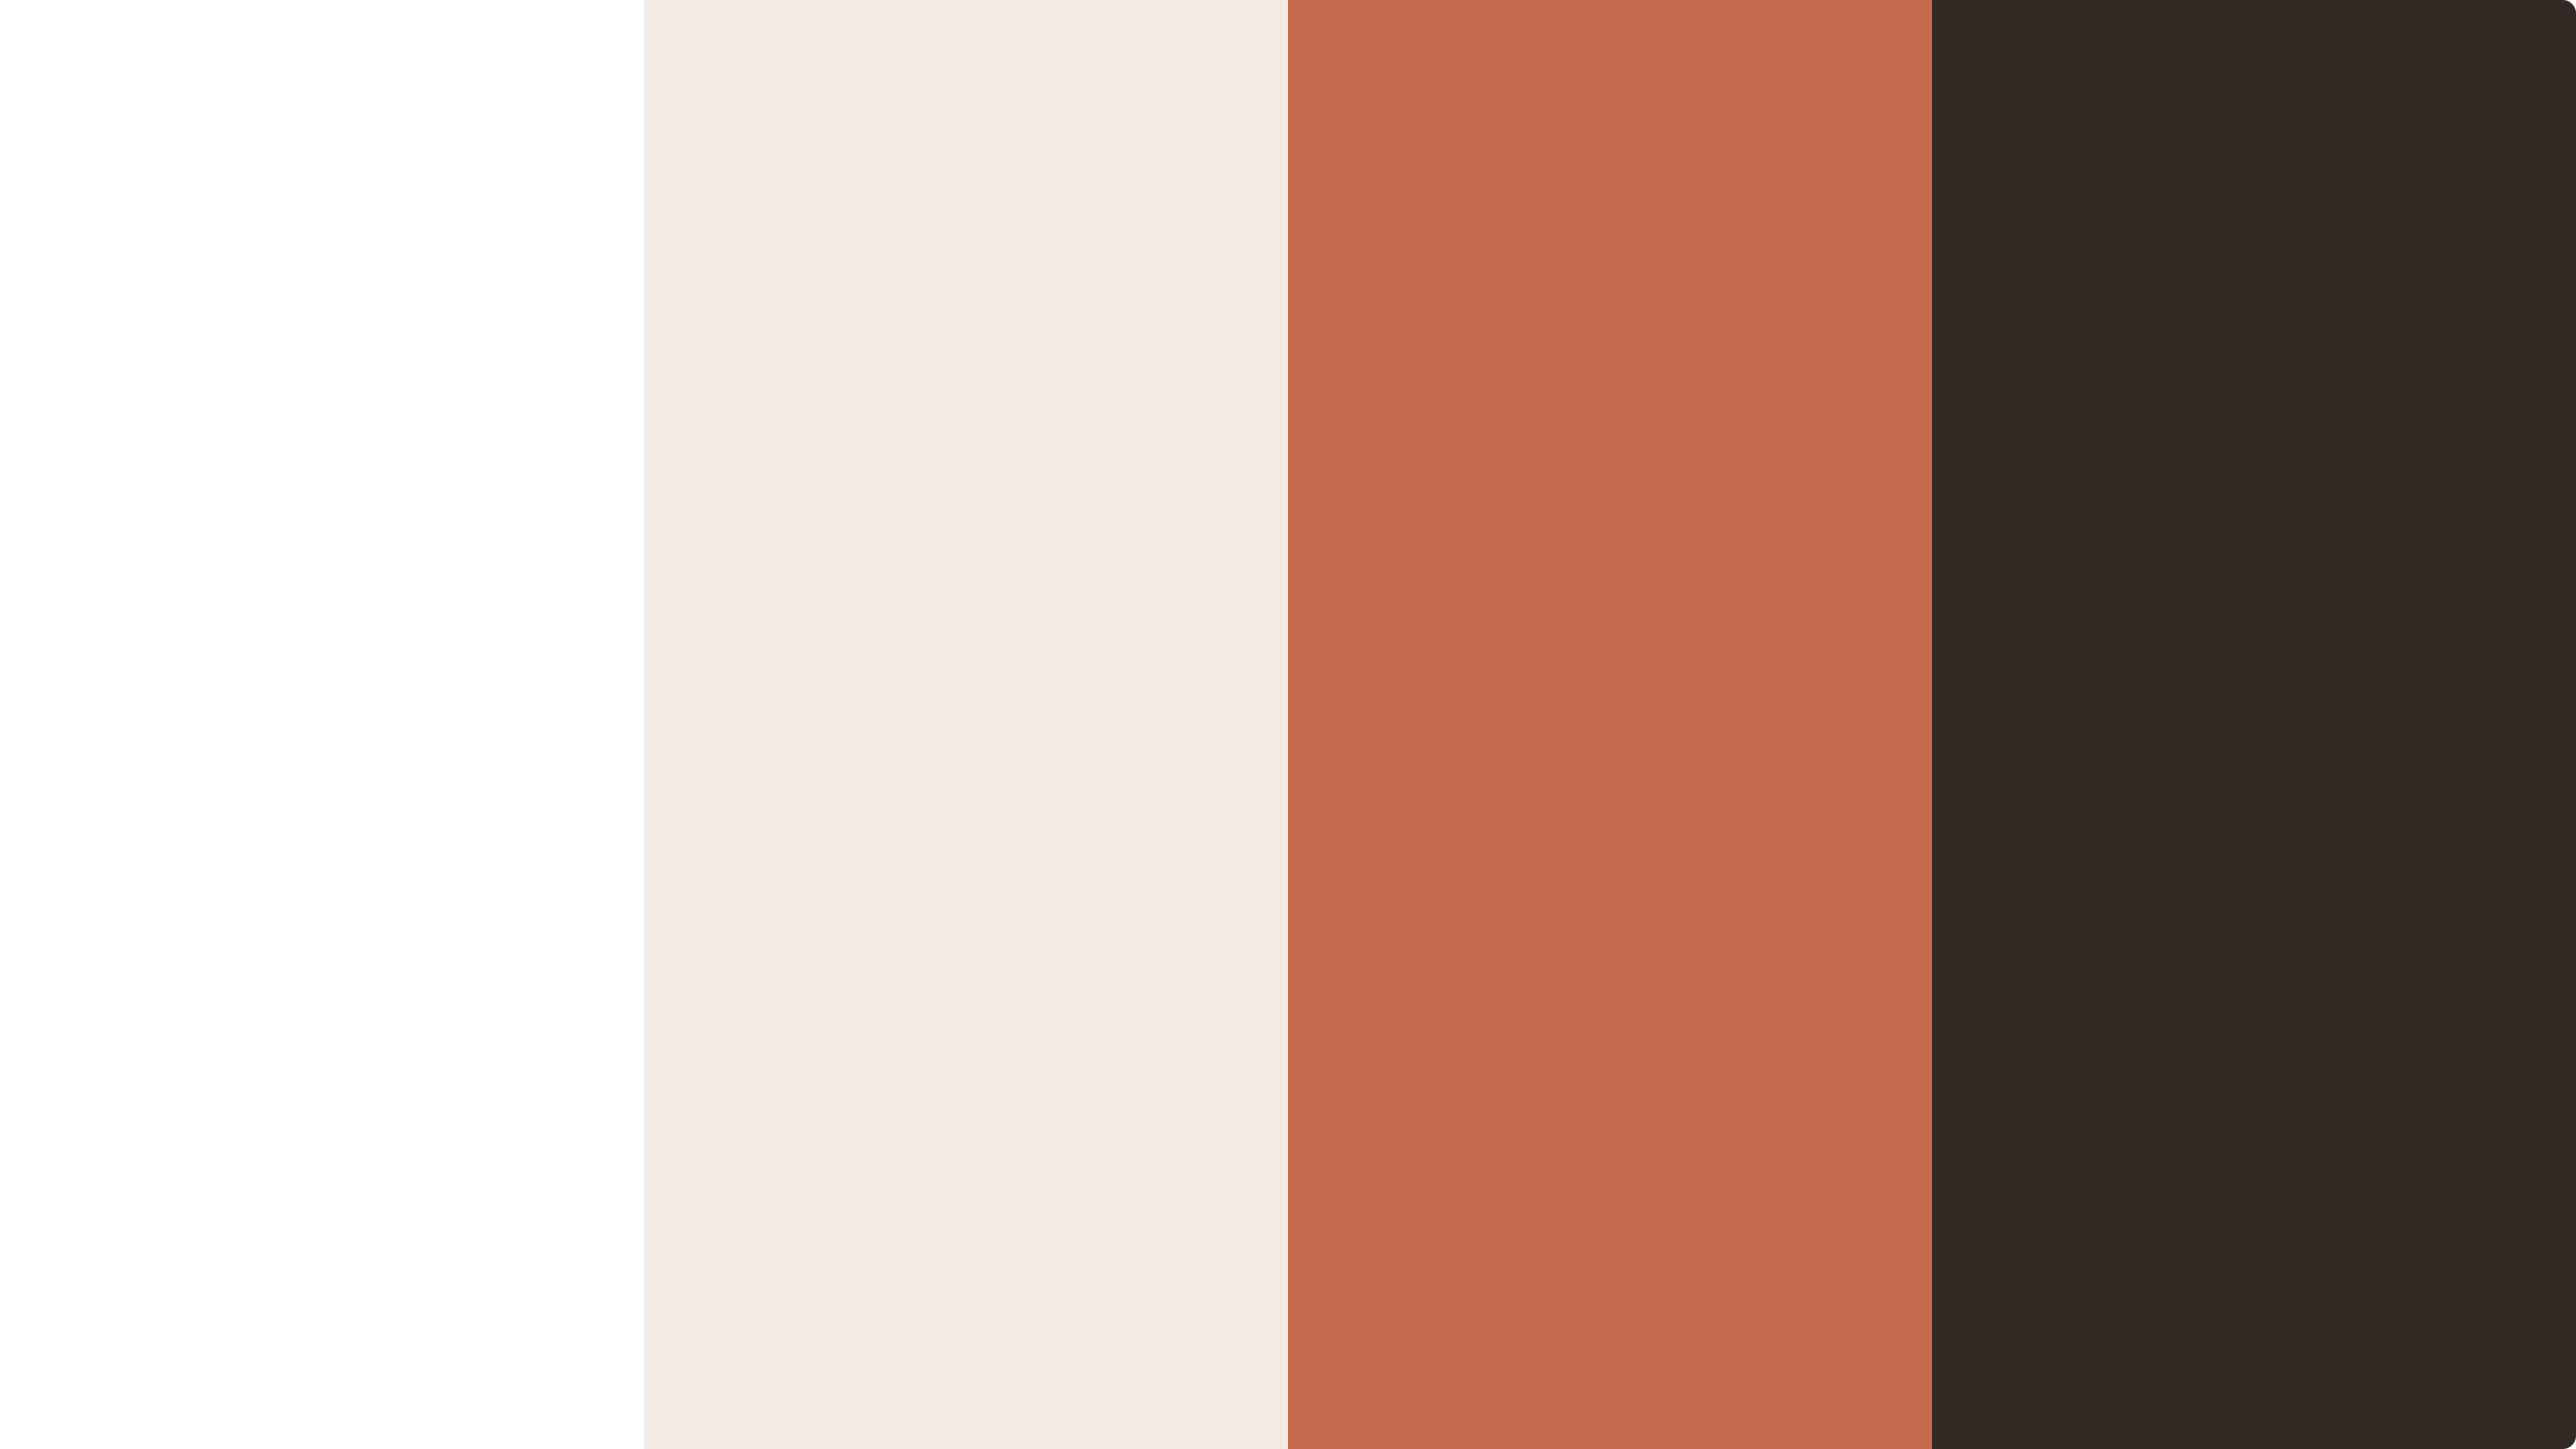
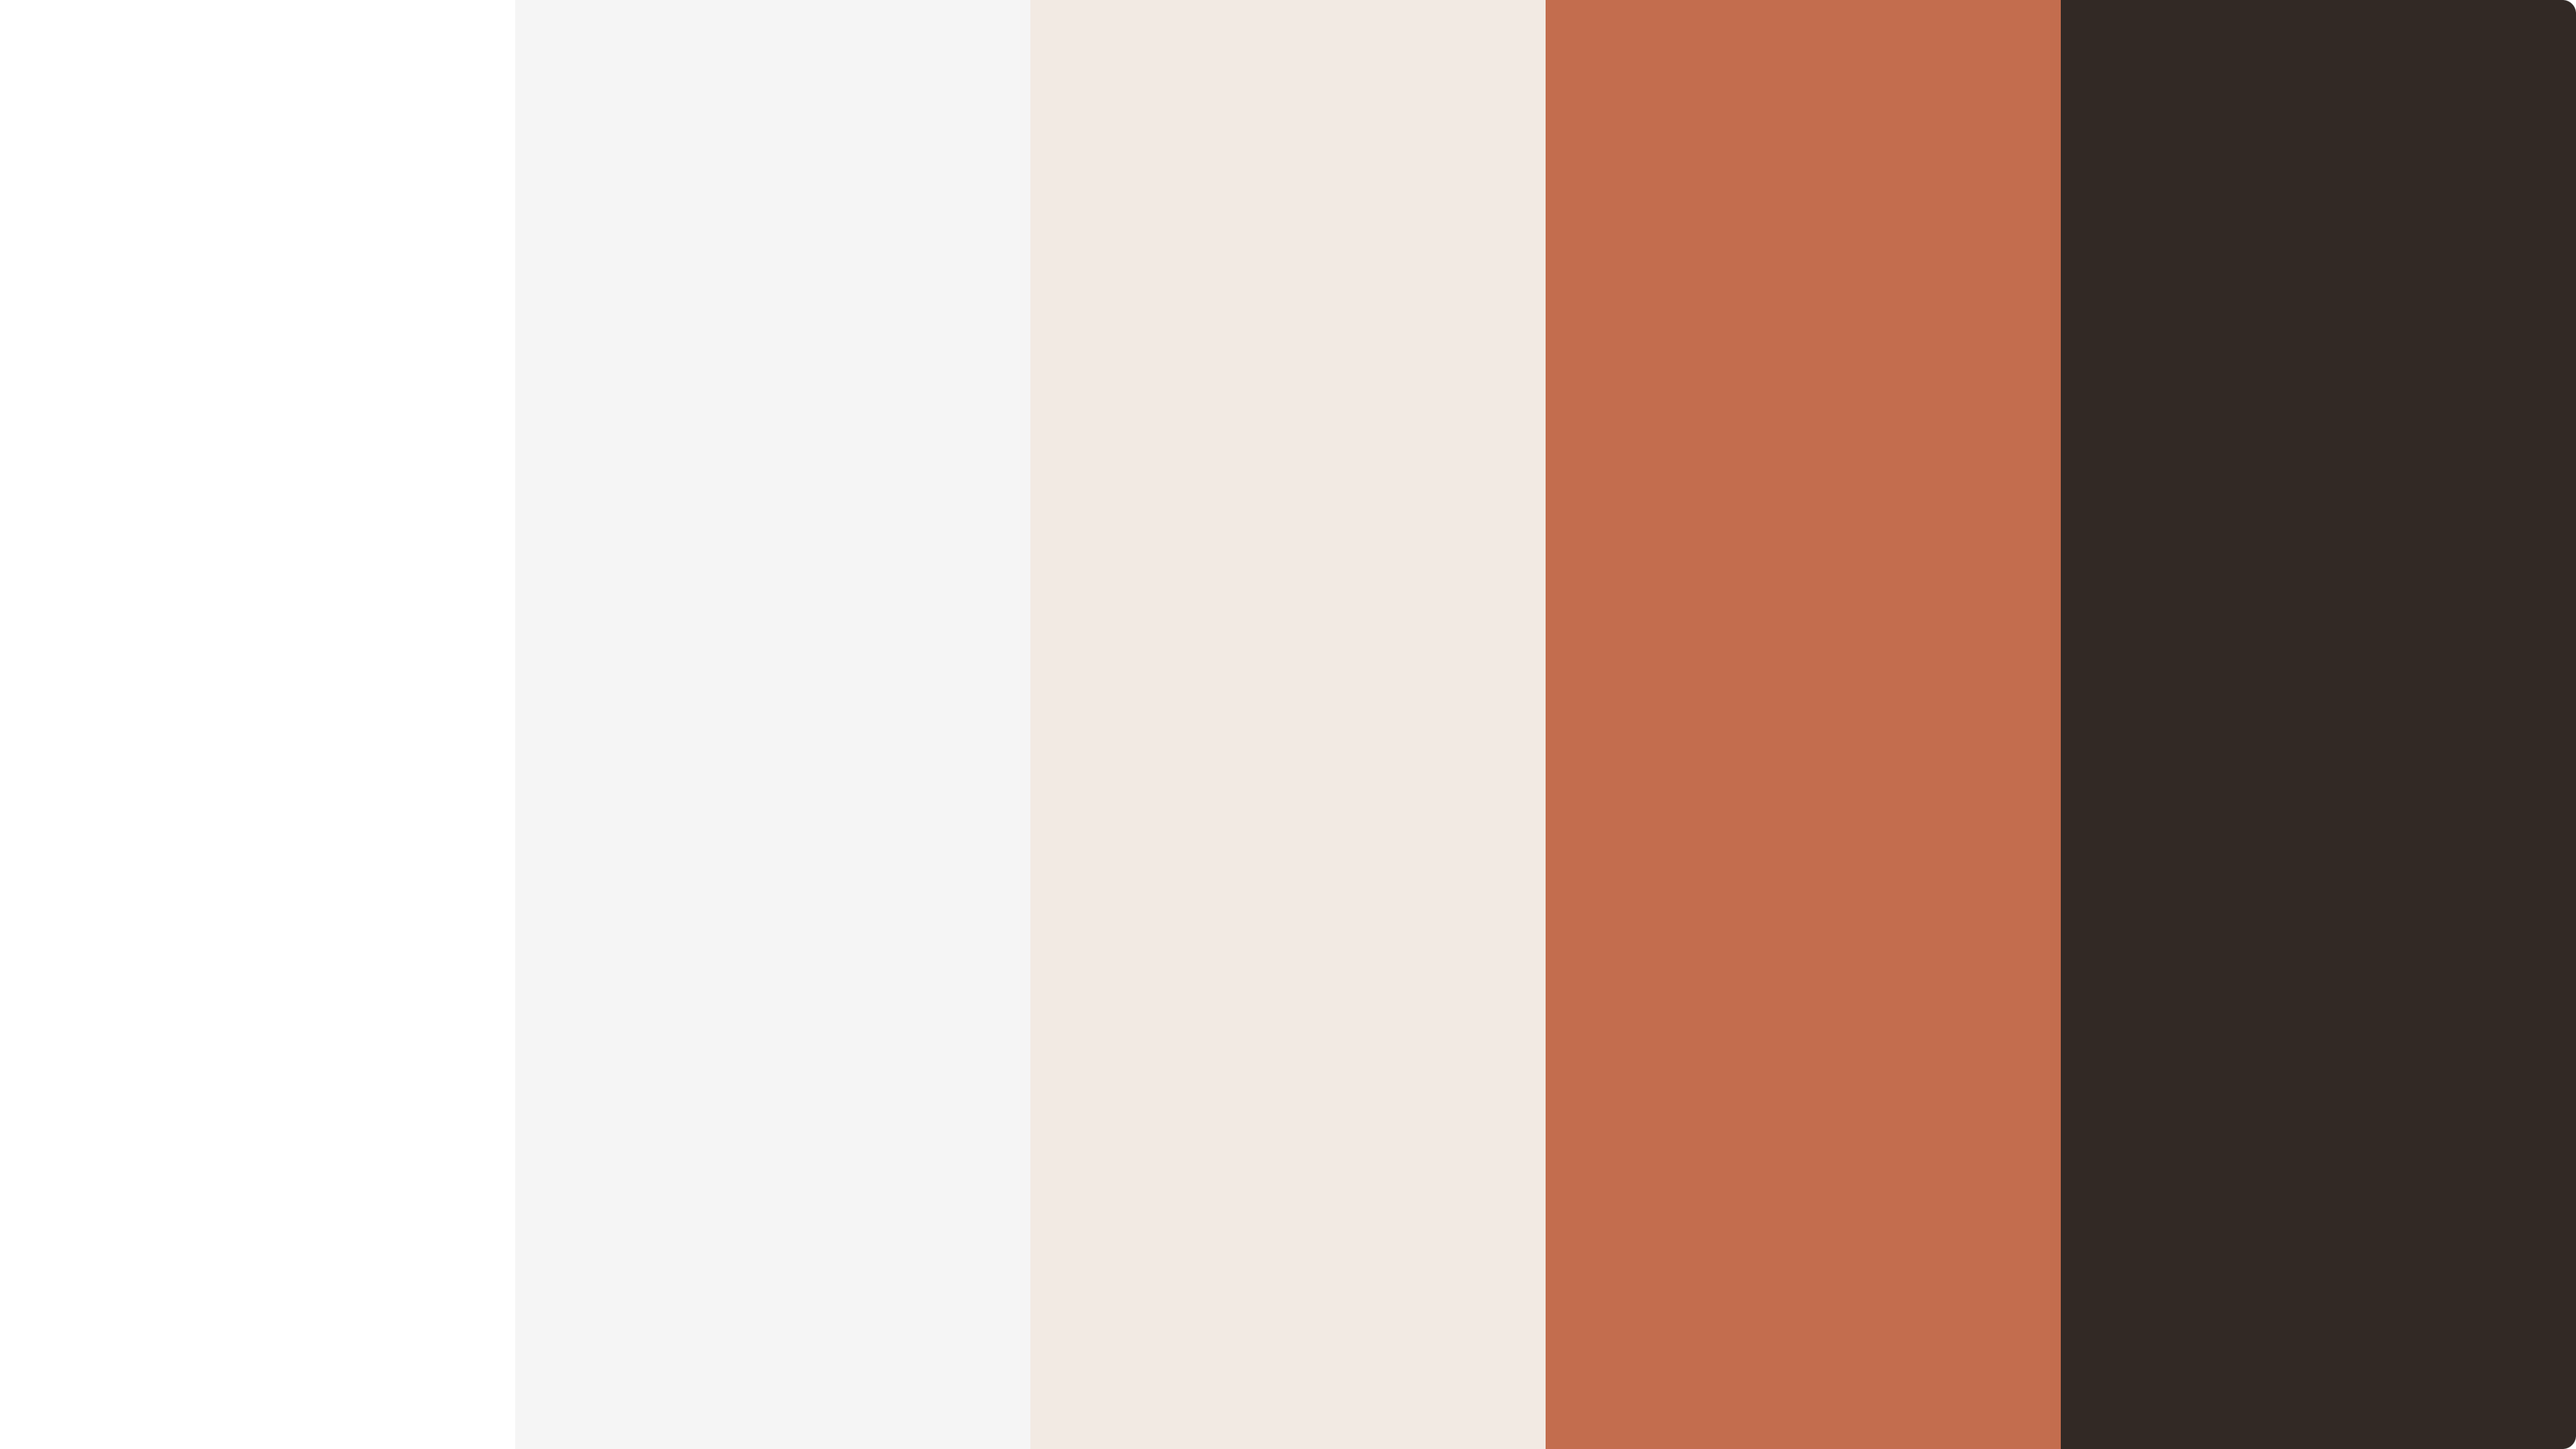
Fix links in README.md and polish its content

Changed region(s): [[0.5, 0.0, 0.625, 1.0], [0.75, 0.0, 0.8125, 1.0]]

diff --git a/README.md b/README.md
@@ -20,7 +20,7 @@ This full-stack framework project was built using Django framework, Python, HTML
 - [Planning](https://github.com/Lilla-Kavecsanszki/downwarddog#planning)
 - [Design](https://github.com/Lilla-Kavecsanszki/downwarddog#design)
   - [Wireframes](https://github.com/Lilla-Kavecsanszki/downwarddog#wireframes)
-  - [Entity Relationship Diagrams](https://github.com/Lilla-Kavecsanszki/downwarddog#entity-relationshi-diagrams)
+  - [Entity Relationship Diagrams](https://github.com/Lilla-Kavecsanszki/downwarddog#entity-relationship-diagrams)
   - [Theme](https://github.com/Lilla-Kavecsanszki/downwarddog#theme)
 - [Languages Used](https://github.com/Lilla-Kavecsanszki/downwarddog#languages-used)
 - [Frameworks, Libraries, Programs & Technologies Used](https://github.com/Lilla-Kavecsanszki/downwarddog#frameworks-libraries-programs--technologies-used)
@@ -32,7 +32,6 @@ This full-stack framework project was built using Django framework, Python, HTML
   - [Further Testing](https://github.com/Lilla-Kavecsanszki/downwarddog#further-testing)
   - [Bugs](https://github.com/Lilla-Kavecsanszki/downwarddog#bugs)
 - [Credits](https://github.com/Lilla-Kavecsanszki/downwarddog#credits)
-  - [Content](https://github.com/Lilla-Kavecsanszki/downwarddog#content)
   - [Acknowledgments and Code](https://github.com/Lilla-Kavecsanszki/downwarddog#acknowledgments-and-code)
   - [Disclaimer](https://github.com/Lilla-Kavecsanszki/downwarddog#disclaimer)
 
@@ -86,13 +85,13 @@ This website:
 
 ### User stories and Epics
 
-##### Introduction and Navigation Epic
+#### Introduction and Navigation Epic
 
 - #1  As a user, I can read the homepage so that I can get more information about the studio, the team, the approach to dogs 
       and yoga in general.
 - #2  As a user, I can click on the navbar so that I go to the specific page I am interested in.
 
-##### Account Management Epic
+#### Account Management Epic
 
 - #3  As a user, I can register to the website so that I have a higher level of permission and access.
 - #4  As a user/admin, I can log in to the website so that I have the ability to book a class and/or comment on an article, 
@@ -100,7 +99,7 @@ This website:
 - #5  As a user, I can see whether I logged in or registered so that I know that it was successful.
 - #6  As a user, I can log out from the website so that I can protect my privacy and information.
 
-##### Articles, Comments & Likes Epic
+#### Articles, Comments & Likes Epic
 
 - #7  As a user, I can click on the article so that I can read the entire text about the topic and learn.
 - #8  As a user, if I am logged in, I can like or unlike the articles so that I have the opportunity to show my interest 
@@ -108,7 +107,7 @@ This website:
 - #9  As a user, if I am logged in, I can comment on the articles so that I can leave my feedback and/or thoughts 
       regarding the article.
 
-##### Booking Epic
+#### Booking Epic
 
 - #10 As a user, I can read more information about each classes so that I can choose which one suits me the best to book. 
 - #11 As a user, if I am logged in, I can create a booking so that I can book and join a class.
@@ -118,17 +117,17 @@ This website:
 - #15 As a user, if I am logged in, I can cancel my spot, my booking, so that I can give my space back to others and I can 
     join the class when I am available.
 
-##### Management Epic
+#### Management Epic
 
 - #16 As an admin, I can authorize or disapprove comments so that I can assure that a respectful language is used at all times.
 - #17 As an admin I can create, read, update and delete articles so that I can manage the content.
 - #18 As an admin I can add and manage Classes and their Timetables so that I can keep the selection up to date.
     
-##### Contact Epic
+#### Contact Epic
 
 - #20 As a user, I can fill out a contact form so that I can communicate with the management, give my feedback, leave a review to the teachers and the studio
 
-##### Future ambition - Planned for the next sprint
+#### Future ambition - Planned for the next sprint
 
 - #21 create a share button to be able to share the articles
 - #22 after successfully creating a booking, for the user to receive a confirmation text or email and/or reminder before the class also
@@ -151,6 +150,8 @@ In this project Github issues were used to create the User stories and groupped 
 
 For easy access, you can find the Epics, User Stories/ Issues, and Kanban board [HERE](https://github.com/users/Lilla-Kavecsanszki/projects/5).
 
+[Back to top](https://github.com/Lilla-Kavecsanszki/downwarddog#contents)
+
 # Design
 
 ### Wireframes
@@ -164,7 +165,7 @@ To showcase the relationships between the models, I have divided them into two c
 The Entity Relationship Diagrams below illustrate how the models are connected to each other for the Articles section:
 - Post and Comment have a one-to-many relationship, where one post can have multiple comments, but each comment is associated with only one post.
 - User and Likes have a many-to-many relationship, where multiple users can like multiple posts, and each like is linked to both a user and a post.
-(- User and Post have a one-to-many relationship, where one user can be associated with multiple posts, but each post is linked to only one user (the author). This feature is however limited for the admin therefore not displayed)
+- User and Post have a one-to-many relationship, where one user can be associated with multiple posts, but each post is linked to only one user (the author). This feature is however limited for the admin.
 
 <p>
 <details><summary>Article ERD</summary><br/>
@@ -183,28 +184,30 @@ The unique_booking constraint in the Booking model ensures that a user can creat
 <img src="README_docs/images/booking_erd.png" alt="Booking ERD">
 </details>
 
-### Colour Scheme
+### Theme
 
-- White
+- White #fff
 - Whitesmoke #f5f5f5
-- Very dark (mostly black) cyan #141c1e
-- Dark moderate lime green #48a04f
-- Bright red #ed3833
+- Chardon #f2eae3
+- Red Damask #c36d4e
+- Wood Bark #322925
 
 ![colour_palette](README_docs/images/colorkit.png "colour_palette")
-[My Colour Palette](https://colorkit.co/palette/f5f5f5-f8d649-48a04f-44aedd-8f4ec4-ed3833-141c1e/)
+[My Colour Palette](https://colorkit.co/palette/fff-f5f5f5-f2eae3-c36d4e-322925/)
 
 I picked these specific colours based on the purpose of the website and what the studio wishes to achieve. I made that decision for a playful and fun aesthetics that can also give a calming effect to the visitors at the same time. 
 
 ### Typography
 
-The primary font used for the website is Poiret One. It was chosen because I found this font to be
+The primary font used for the website is Poiret One. It was chosen because I found this font to be visually appealing, modern, and fits well with the overall theme of the studio.
 
 ![Poiret One](README_docs/images/poiret_one.png "poiret_one")
 
 The secondary font used for the body is Montserrat, which was selected for its clear readability, which works well with Poiret One to maintain the airy yet fun outcome.
 
 ![Montserrat](README_docs/images//montserrat.png "montserrat")
+
+[Back to top](https://github.com/Lilla-Kavecsanszki/downwarddog#contents)
 
 # Languages Use
 
@@ -218,9 +221,9 @@ The secondary font used for the body is Montserrat, which was selected for its c
 # Frameworks, Libraries, Programs & Technologies Used
 
 - [Lucid](https://lucid.app/documents#/documents?folder_id=recent) was used to create the ER Diagrams
+- [ColorKit](https://colorkit.co/) was used to create the colour palette.
 - Github was used as the repository for the projects code after being pushed from Git
-- Git was used for version control by the Gitpod terminal to commit to Git and Push to GitHub; to create and edit all
-  original code
+- CodeAnywhere was used for version control, allowing me to commit changes and push them to GitHub directly from the CodeAnywhere terminal. It was the primary tool used for creating and editing all the code.
 - [Google Fonts](https://fonts.google.com/) used for the Montserrat and Poiret One fonts
 - [Font Awesome](https://fontawesome.com/) was used to add icons for aesthetic and UX purposes
 - [Fonticon](https://gauger.io/fonticon/) was used to create the favicon
@@ -231,7 +234,7 @@ The secondary font used for the body is Montserrat, which was selected for its c
 - Django allauth used for account registration and authentication
 - Django crispy forms used for form rendering
 - Summernote used to to enable "WYSIWYG" (What You See Is What You Get) editing functionality to provide an intuitive and user-friendly interface when creating new articles
-- [Cloudinary](https://cloudinary.com/) used to store the images and data used by the website
+- [Cloudinary](https://cloudinary.com/) used to store all of static files and images.
 - [Heroku] was used to deploy the application and provides an enviroment in which the code can execute
 
 [Back to top](https://github.com/Lilla-Kavecsanszki/downwarddog#contents)
@@ -507,7 +510,7 @@ The admin provides timetable information for each existing class by creating the
 
 [Back to top](https://github.com/Lilla-Kavecsanszki/downwarddog#contents)
 
-## Future ambitions
+### Future ambitions
 
 - Integrate the onclick message that pops up when the user attempts to delete a booking
 - Create a share button to be able to share the articles
@@ -521,7 +524,7 @@ How the Features align with and fulfill the User Stories by providing the necess
 
 ![Cross-reference Table](README_docs/images/crossreference_table.png "crossreference_table")
 
-
+[Back to top](https://github.com/Lilla-Kavecsanszki/downwarddog#contents)
 
 # Deployment
 
@@ -641,14 +644,10 @@ to validate python code written and used in the project's settings.py
 
 The table provided below presents the test cases that were utilized, with the corresponding results, and references to the corresponding Feature IDs that each test case addressed. These test cases were primarily designed based on the Acceptance Criteria specified for each User Story.
 
-<p>
-<details><summary>Details</summary><br/>
+Details here:
 [Manual Testing Document](README_docs/manual_testing_cases.pdf)
-</details>
 
 All tests passed successfully, indicating that the specified features and functionalities are working as intended.
-
-[Back to top](https://github.com/Lilla-Kavecsanszki/downwarddog#contents)
 
 ### Further testing
 
@@ -669,19 +668,21 @@ An issue came up while testing the application in the meantime;
 
 # Credits
 
-## Content 
+## Media
 
+All images were taken from Pexels.com and Shutterstock.comm
 
-
-[Back to top](https://github.com/Lilla-Kavecsanszki/downwarddog#contents)
+The video was taken from Pexels.com
 
 ## Acknowledgments and Code
 
-I received inspiration for this project from my personal experience working in the hospitality industry, as well as from my partner's struggles with similar issues at his job. These experiences helped me figure the logic for this project greatly. In addition, I reviewed the work of other students to gain a better understanding of project scope and to identify best practices for Milestone Project 3.
+I drew inspiration for this project from my personal passion for both yoga and animals, particularly my pets, Whisky and Mia. To ensure I created a successful and well-rounded project, I reviewed numerous yoga studio websites and in addition, the work of other students to gain a better understanding of project scope and to identify best practices for Milestone Project 4.
 
-The below websites have been used to understand the logic of building this project with Python.
+The below websites and Youtube channels have been used to understand the logic of building this project with Django.
 
-I also would like to express my gratitude to Elaine Roche, my mentor, and the tutoring team for their continuous support and valuable feedback. Their guidance, tips, and resources have been instrumental in my coding and testing skills.
+I would like to extend my heartfelt appreciation to my mentor, Elaine Roche, and the tutoring team for their unwavering support and valuable feedback. Their guidance, tips, and resources have been pivotal in honing my coding and testing skills.
+
+[Back to top](https://github.com/Lilla-Kavecsanszki/downwarddog#contents)
 
 ## Disclaimer
 
